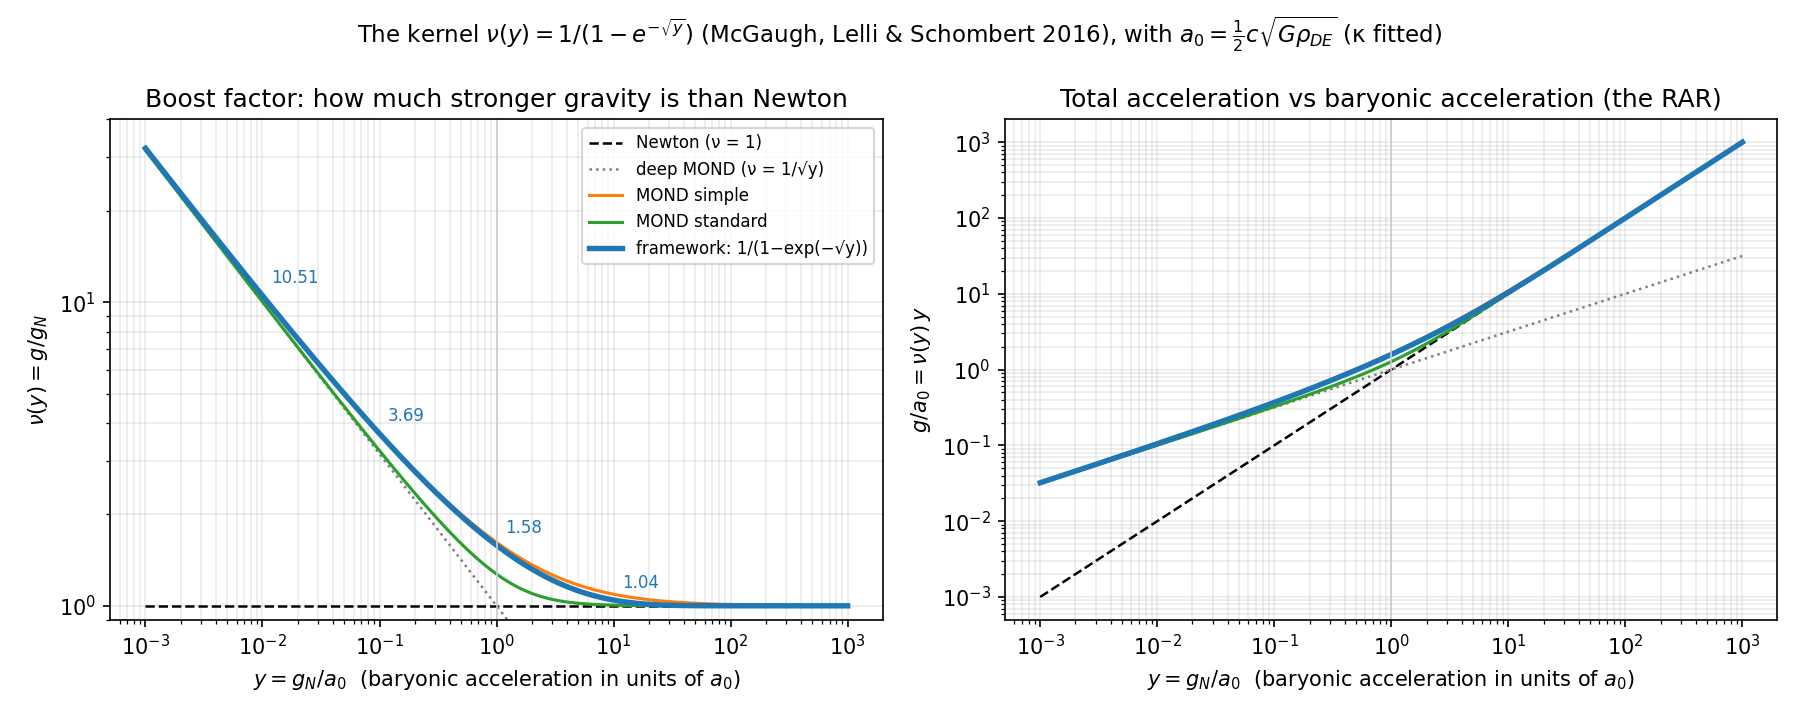
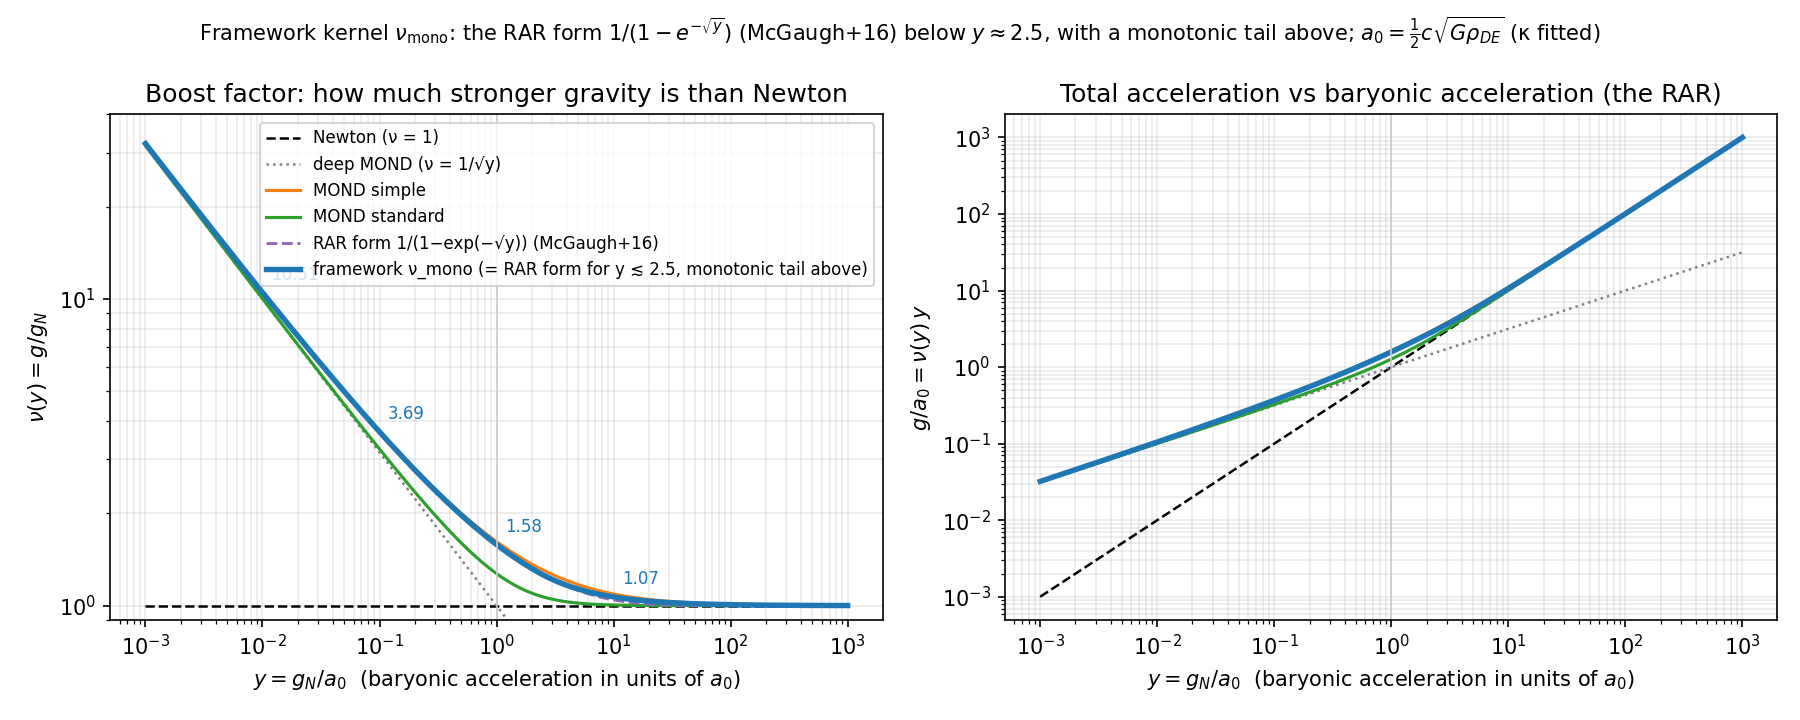
Kernel chart corrected: the framework kernel is nu_mono (RAR form below y~2.5, monotonic tail above), plotted against the McGaugh+16 form.

diff --git a/explainers/make_kernel_chart.py b/explainers/make_kernel_chart.py
@@ -2,9 +2,22 @@
 import numpy as np, matplotlib
 matplotlib.use("Agg")
 import matplotlib.pyplot as plt
+from scipy.optimize import brentq
+# nu_mono exactly as in the framework engine (campaign_fresh_gravity/CFG424_turnaround_catchment/cfg424_pm.py)
+def h_rar(y):
+    y=np.asarray(y,float)
+    with np.errstate(over="ignore"):
+        return np.where(y<1e4, y/np.expm1(np.sqrt(np.minimum(y,1e4))), 0.0)
+def dh_rar(y,e=1e-6): return (h_rar(y*(1+e))-h_rar(y*(1-e)))/(2*y*e)
+Y_P=brentq(lambda t: float(dh_rar(t)),1.0,5.0); H_P=float(h_rar(Y_P)); DELTA=0.05
+LYG=np.linspace(-12,12,240001); YG=10**LYG
+DH=np.maximum(dh_rar(YG),DELTA*H_P/(YG+Y_P))
+HM=float(h_rar(YG[0]))+np.concatenate([[0.0],np.cumsum(0.5*(DH[1:]+DH[:-1])*np.diff(YG))])
+def nu_mono(y): y=np.maximum(np.asarray(y,float),1e-12); return 1.0+np.interp(np.log10(y),LYG,HM)/y
 
 y = np.logspace(-3, 3, 600)
-nu_mono = 1.0 / (1.0 - np.exp(-np.sqrt(y)))                 # McGaugh+16 RAR form (framework kernel)
+nu_rar = 1.0 / (1.0 - np.exp(-np.sqrt(y)))                  # McGaugh+16 RAR form
+nu_fw = nu_mono(y)                                            # framework kernel nu_mono
 nu_simple = 0.5 + np.sqrt(0.25 + 1.0 / y)                    # MOND 'simple'
 nu_standard = np.sqrt(0.5 + np.sqrt(0.25 + 1.0 / y**2))      # MOND 'standard'
 deep = 1.0 / np.sqrt(y)                                       # deep-MOND limit
@@ -15,7 +28,8 @@ for a, f, lab in [(ax[0], lambda v: v, r"$\nu(y)=g/g_N$"), (ax[1], lambda v: v *
     a.loglog(y, f(deep), ":", color="grey", lw=1.2, label="deep MOND (ν = 1/√y)")
     a.loglog(y, f(nu_simple), color="tab:orange", lw=1.5, label="MOND simple")
     a.loglog(y, f(nu_standard), color="tab:green", lw=1.5, label="MOND standard")
-    a.loglog(y, f(nu_mono), color="tab:blue", lw=2.6, label="framework: 1/(1−exp(−√y))")
+    a.loglog(y, f(nu_rar), color="tab:purple", lw=1.4, ls="--", label="RAR form 1/(1−exp(−√y)) (McGaugh+16)")
+    a.loglog(y, f(nu_fw), color="tab:blue", lw=2.6, label="framework ν_mono (= RAR form for y ≲ 2.5, monotonic tail above)")
     a.axvline(1, color="0.8", lw=0.8)
     a.set_xlabel(r"$y = g_N/a_0$  (baryonic acceleration in units of $a_0$)")
     a.set_ylabel(lab); a.grid(True, which="both", alpha=0.25)
@@ -23,9 +37,9 @@ ax[0].set_ylim(0.9, 40); ax[0].set_title("Boost factor: how much stronger gravit
 ax[1].set_title("Total acceleration vs baryonic acceleration (the RAR)")
 ax[0].legend(fontsize=8, loc="upper right")
 for yy in (0.01, 0.1, 1, 10):
-    v = 1 / (1 - np.exp(-np.sqrt(yy)))
+    v = float(nu_mono(yy))
     ax[0].annotate(f"{v:.2f}", (yy, v), textcoords="offset points", xytext=(4, 6), fontsize=8, color="tab:blue")
-fig.suptitle(r"The kernel $\nu(y)=1/(1-e^{-\sqrt{y}})$ (McGaugh, Lelli & Schombert 2016), with $a_0=\frac{1}{2}c\sqrt{G\rho_{DE}}$ (κ fitted)", fontsize=11)
+fig.suptitle(r"Framework kernel $\nu_{\rm mono}$: the RAR form $1/(1-e^{-\sqrt{y}})$ (McGaugh+16) below $y\approx2.5$, with a monotonic tail above; $a_0=\frac{1}{2}c\sqrt{G\rho_{DE}}$ (κ fitted)", fontsize=10)
 fig.tight_layout()
 fig.savefig("explainers/img/kernel_nu_mono.png", dpi=150)
 print("wrote explainers/img/kernel_nu_mono.png")
